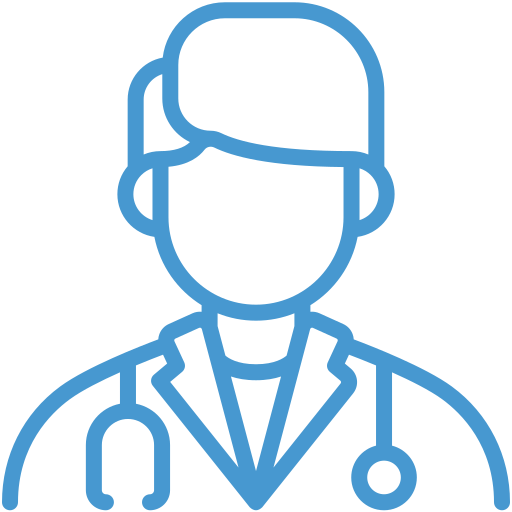
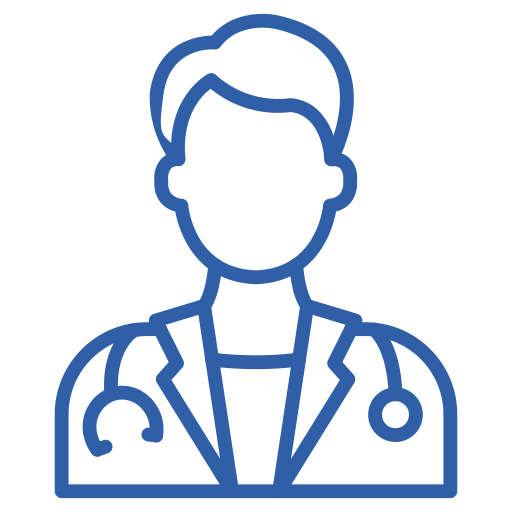
Botón servicios
se cambió la url del botón y adicional se arreglo consulta médica

diff --git a/html/Planpremium.html b/html/Planpremium.html
@@ -18,11 +18,11 @@
       <div class="dropdown-content">
         <a href="../html/Nosotros.html">Sobre Nosotros</a>
         <a href="../html/EstadosFinancieros.html#estados">Estados financieros</a>
-        <a href="../index.html#reconocimientos">Nuestros reconocimientos</a>
+        <a href="../index.html/#servicios">Nuestros reconocimientos</a>
       </div>
     </div>
 
-    <a href="#servicios">Servicios</a>
+    <a href="./servicios.html">Servicios</a>
     <a href="https://resultados-bios-popayan.web.app" target="_blank">Resultados</a>
     <!-- <a href="https://wa.me/573009124604" target="_blank" class="nav-cta"> 
       <img src="../img/calendario_B.png" alt="">
@@ -70,7 +70,7 @@
       </p>
 
       <a href="../index.html" class="btn-regresar-rutas">
-        <span>←</span>
+        
         Regresar al inicio
       </a>
 
@@ -80,14 +80,90 @@
 
 </main>
 
-<footer class="construction-footer">
-  <p>
-    Gracias por tu comprensión. Visita nuestros servicios y agenda tu cita.
-  </p>
-</footer>
+ <!-- ══════════════════ FOOTER ══════════════════ -->
+<footer>
+  <div class="footer-grid">
 
-<footer class="construction-footer">
-  <p>Gracias por tu comprensión. Visita nuestros servicios y agenda tu cita.</p>
+    <!-- LOGO + DESCRIPCIÓN -->
+    <div>
+      <div class="footer-logo">
+        <img src="../img/logoBios.png" alt="BIOS IPS">
+      </div>
+
+      <p class="footer-desc">
+        Centro médico diagnóstico y preventivo con presencia en el Cauca.
+        Comprometidos con tu salud desde la prevención.
+      </p>
+
+      <!-- LOGO SUPERSALUD -->
+      <div class="supersalud">
+        <img src="../img/vg_super_salud.png" alt="Vigilado Supersalud">
+      </div>
+    </div>
+
+    <!-- INSTITUCIÓN -->
+    <div class="footer-col">
+      <h4>Institución</h4>
+      <ul>
+        <li><a href="../index.html#quienes">¿Quiénes somos?</a></li>
+        <li><a href="../index.html#atencion">Modelo de atención</a></li>
+        <li><a href="../html/equipo.html">Nuestro equipo</a></li>
+        <li><a href="#">Plan Premium</a></li>
+        <li><a href="../index.html#reconocimientos">Reconocimientos</a></li>
+      </ul>
+    </div>
+
+    <!-- PACIENTES -->
+    <div class="footer-col">
+      <h4>Pacientes</h4>
+      <ul>
+        <!-- <li><a href="https://wa.me/573001234567" target="_blank">Solicitar cita</a></li> -->
+        <li><a href="https://resultados-bios-popayan.web.app" target="_blank">Resultados en línea</a></li>
+        <li><a href="./Historiaclinica.html">Historia clínica</a></li>
+        <li><a href="../index.html#deberes">Deberes y Derechos</a></li>
+        <li><a href="../index.html#pqrsf">PQRSF</a></li>
+      </ul>
+    </div>
+
+    <!-- CONTACTO -->
+    <div class="footer-col footer-contact">
+      <h4>Contáctanos</h4>
+      <ul>
+        <li>
+          <img src="../img/ubicacion.png" alt="">
+          Cra. 7 #4-29, Popayán
+        </li>
+        <li>
+          <img src="../img/ubicacion.png" alt="">
+          Cra. 10 #15-48, Santander de Q.
+        </li>
+        <li>
+          <img src="../img/telefono.png" alt="">
+          (602) 820-0000
+        </li>
+        <li>
+          <img src="../img/correo.png" alt="">
+          <a href="#">info@biosips.com</a>
+        </li>
+      </ul>
+    </div>
+
+  </div>
+
+  <hr class="footer-divider">
+
+  <div class="footer-bottom">
+    <p>© 2025 BIOS IPS Medical Center S.A.S. — Todos los derechos reservados.</p>
+
+    <div class="footer-links">
+      <a href="#">Transparencia</a>
+      <a href="#">Políticas</a>
+      <a href="#">Aviso de Privacidad</a>
+      <a href="#">Términos Legales</a>
+      <a href="#">Derechos de Uso</a>
+    </div>
+  </div>
 </footer>
+<script src="../js/menu.js"></script>
 </body>
 </html> 

diff --git a/html/Consultamedica.html b/html/Consultamedica.html
@@ -26,7 +26,7 @@
       </div>
     </div>
 
-    <a href="#servicios">Servicios</a>
+    <a href="./servicios.html">Servicios</a>
     <a href="https://resultados-bios-popayan.web.app" target="_blank">Resultados</a>
     <!-- <a href="https://wa.me/573111111111" target="_blank" class="nav-cta"> 
       <img src="../img/calendario_B.png" alt="">
@@ -117,7 +117,7 @@
     <div class="consultamedica-servicio-card">
 
       <div class="consultamedica-servicio-icono">
-       <img src="../img/servicios/.png" alt="">
+       <img src="../img/servicios/odontologia.png" alt="">
       </div>
 
       <div>

diff --git a/html/serviciospopayan.html b/html/serviciospopayan.html
@@ -24,7 +24,7 @@
       </div>
     </div>
 
-    <a href="#servicios">Servicios</a>
+    <a href="./servicios.html">Servicios</a>
     <a href="https://resultados-bios-popayan.web.app" target="_blank">Resultados</a>
     <a href="https://wa.me/573009124604" target="_blank" class="nav-cta"> <!--usar el número de Bios-->
       <img src="../img/calendario_B.png" alt="">

diff --git a/html/cervix.html b/html/cervix.html
@@ -29,7 +29,7 @@
     </div>
 
    
-    <a href="#servicios">Servicios</a>
+    <a href="./servicios.html">Servicios</a>
     <a href="https://resultados-bios-popayan.web.app" target="_blank">Resultados</a>
     <!-- <a href="https://wa.me/573009124604" target="_blank" class="nav-cta"> usar el número de Bios
       <img src="../img/calendario_B.png" alt="">

diff --git a/html/equipo.html b/html/equipo.html
@@ -29,7 +29,7 @@
       </div>
     </div>
 
-    <a href="#servicios">Servicios</a>
+    <a href="../html/servicios.html">Servicios</a>
     <a href="https://resultados-bios-popayan.web.app" target="_blank">Resultados</a>
     <!-- <a href="https://wa.me/573009124604" target="_blank" class="nav-cta"> 
       <img src="../img/calendario_B.png" alt="">

diff --git a/html/rutas.html b/html/rutas.html
@@ -25,7 +25,7 @@
       </div>
     </div>
     
-    <a href="#servicios">Servicios</a>
+    <a href="./servicios.html">Servicios</a>
     <a href="https://resultados-bios-popayan.web.app" target="_blank">Resultados</a>
     <!-- <a href="https://wa.me/573009124604" target="_blank" class="nav-cta"> 
       <img src="../img/calendario_B.png" alt="">

diff --git a/html/Imagenesdiagnosticas.html b/html/Imagenesdiagnosticas.html
@@ -24,7 +24,7 @@
       </div>
     </div>
 
-    <a href="#servicios">Servicios</a>
+    <a href="./servicios.html">Servicios</a>
     <a href="https://resultados-bios-popayan.web.app" target="_blank">Resultados</a>
     <!-- <a href="https://wa.me/573009124604" target="_blank" class="nav-cta"> 
       <img src="../img/calendario_B.png" alt="">

diff --git a/html/Laboratorio.html b/html/Laboratorio.html
@@ -23,7 +23,7 @@
       </div>
     </div>
 
-    <a href="#servicios">Servicios</a>
+    <a href="./servicios.html">Servicios</a>
     <a href="https://resultados-bios-popayan.web.app" target="_blank">Resultados</a>
     <!-- <a href="https://wa.me/573009124604" target="_blank" class="nav-cta"> 
       <img src="../img/calendario_B.png" alt="">

diff --git a/html/Nosotros.html b/html/Nosotros.html
@@ -24,7 +24,7 @@
       </div>
     </div>
 
-    <a href="#servicios">Servicios</a>
+    <a href="./servicios.html">Servicios</a>
     <a href="https://resultados-bios-popayan.web.app" target="_blank">Resultados</a>
     <!-- <a href="https://wa.me/573009124604" target="_blank" class="nav-cta"> 
       <img src="../img/calendario_B.png" alt="">

diff --git a/html/Paqueteginecologia.html b/html/Paqueteginecologia.html
@@ -24,7 +24,7 @@
       </div>
     </div>
 
-    <a href="#servicios">Servicios</a>
+    <a href="./servicios.html">Servicios</a>
     <a href="https://resultados-bios-popayan.web.app" target="_blank">Resultados</a>
     <!-- <a href="https://wa.me/573009124604" target="_blank" class="nav-cta"> 
       <img src="../img/calendario_B.png" alt="">

diff --git a/html/Paquetemama.html b/html/Paquetemama.html
@@ -23,7 +23,7 @@
       </div>
     </div>
 
-    <a href="#servicios">Servicios</a>
+    <a href="./servicios.html">Servicios</a>
     <a href="https://resultados-bios-popayan.web.app" target="_blank">Resultados</a>
     <!-- <a href="https://wa.me/573009124604" target="_blank" class="nav-cta"> 
       <img src="../img/calendario_B.png" alt="">

diff --git a/html/mama.html b/html/mama.html
@@ -27,7 +27,7 @@
       </div>
     </div>
 
-    <a href="#servicios">Servicios</a>
+    <a href="./servicios.html">Servicios</a>
     <a href="https://resultados-bios-popayan.web.app" target="_blank">Resultados</a>
     <!-- <a href="https://wa.me/573009124604" target="_blank" class="nav-cta"> 
       <img src="../img/calendario_B.png" alt="">
